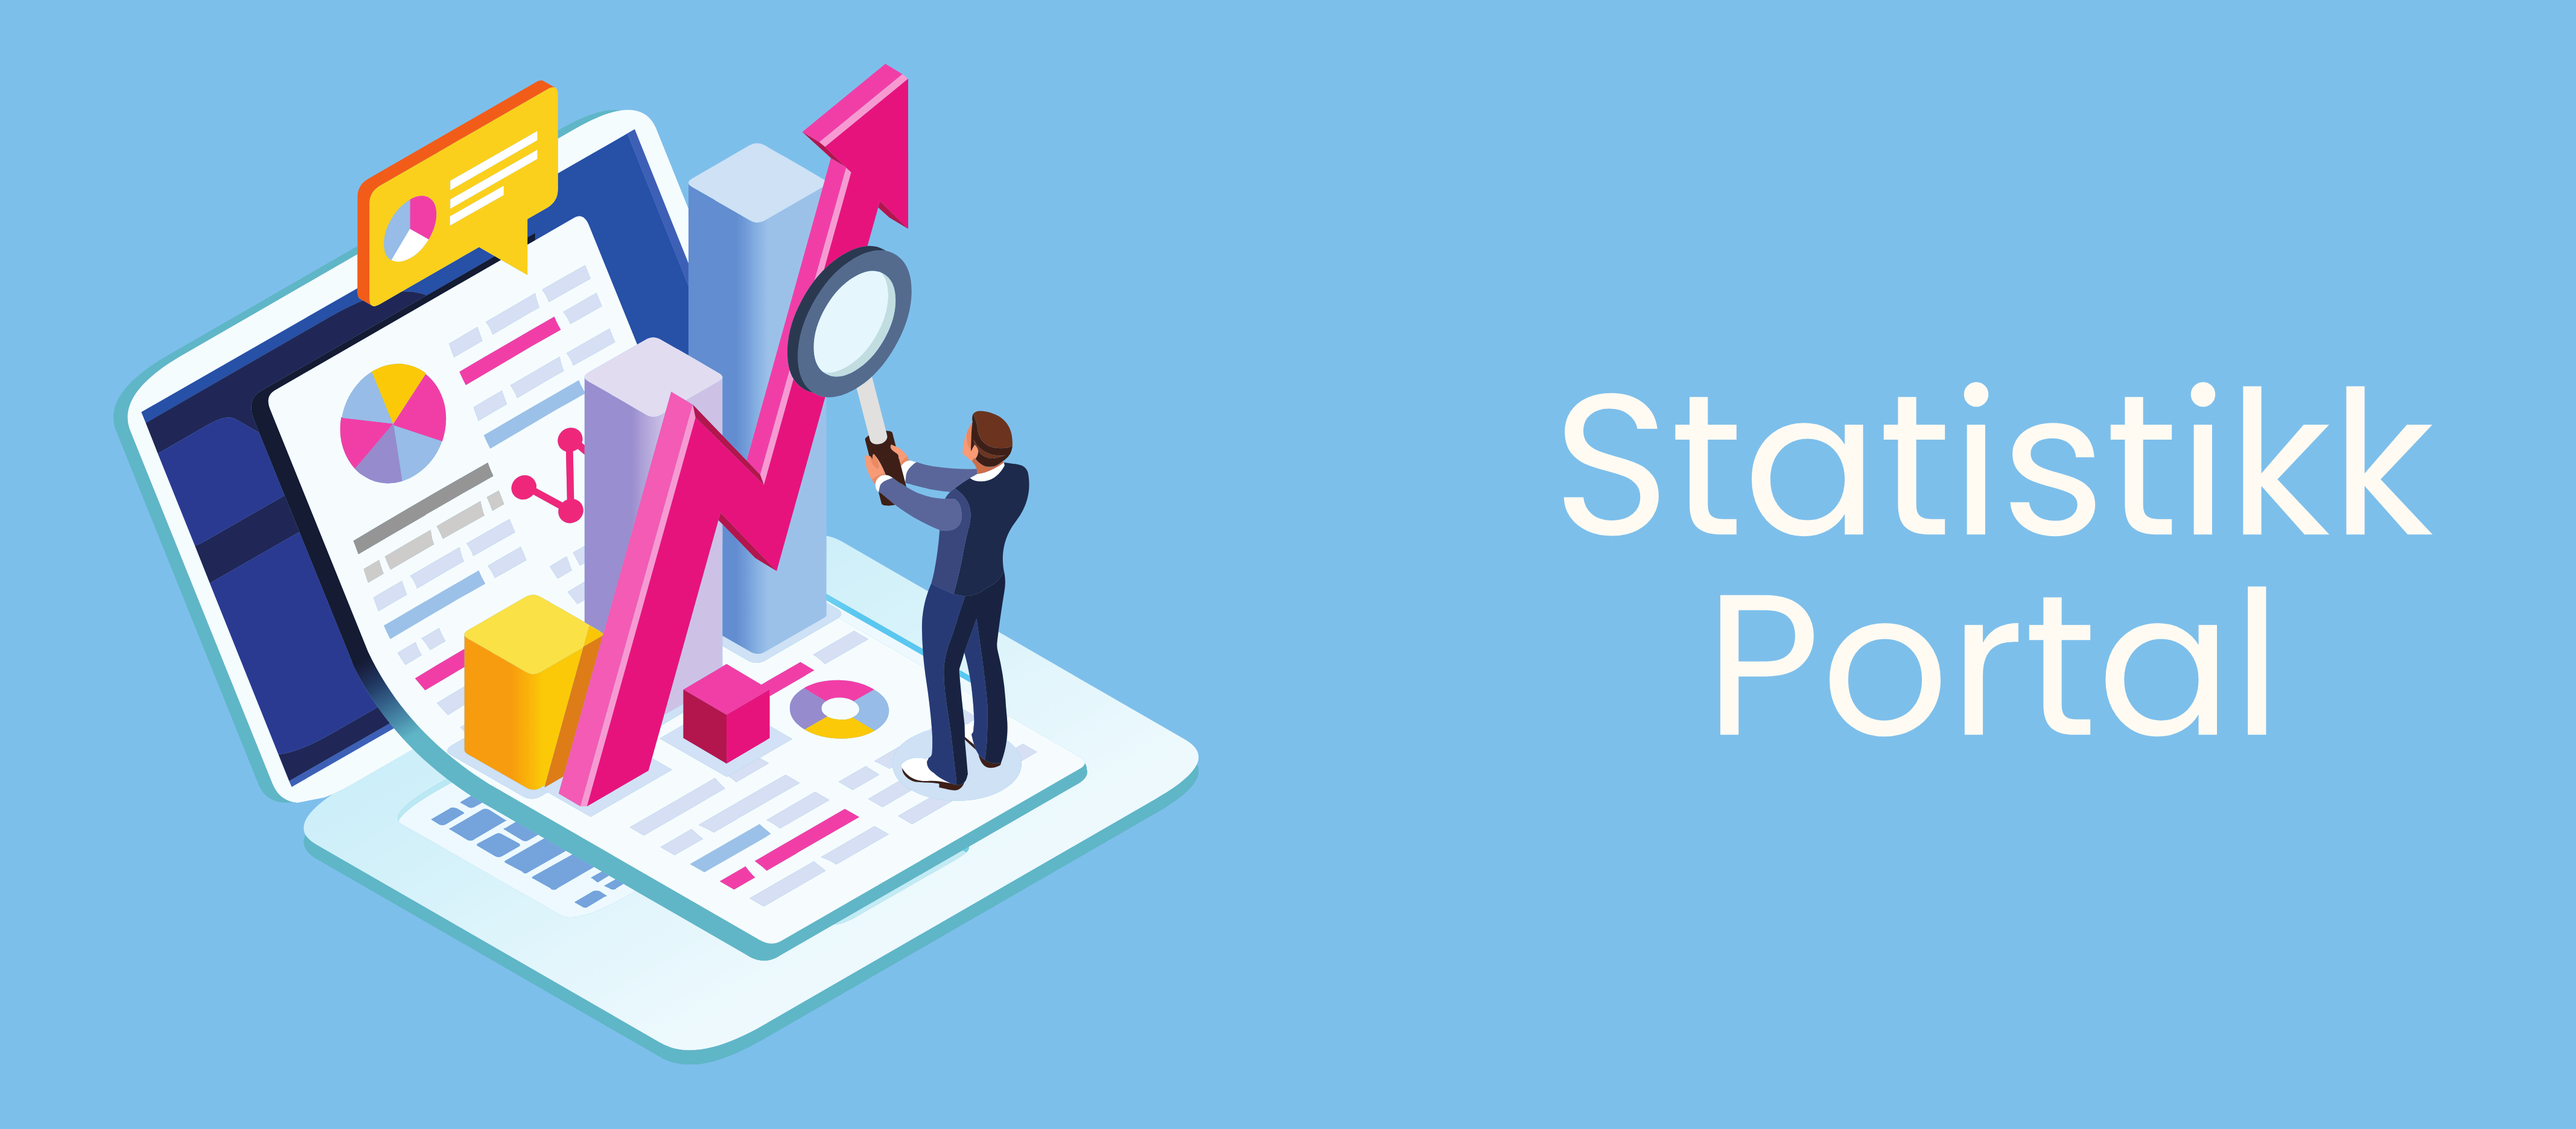
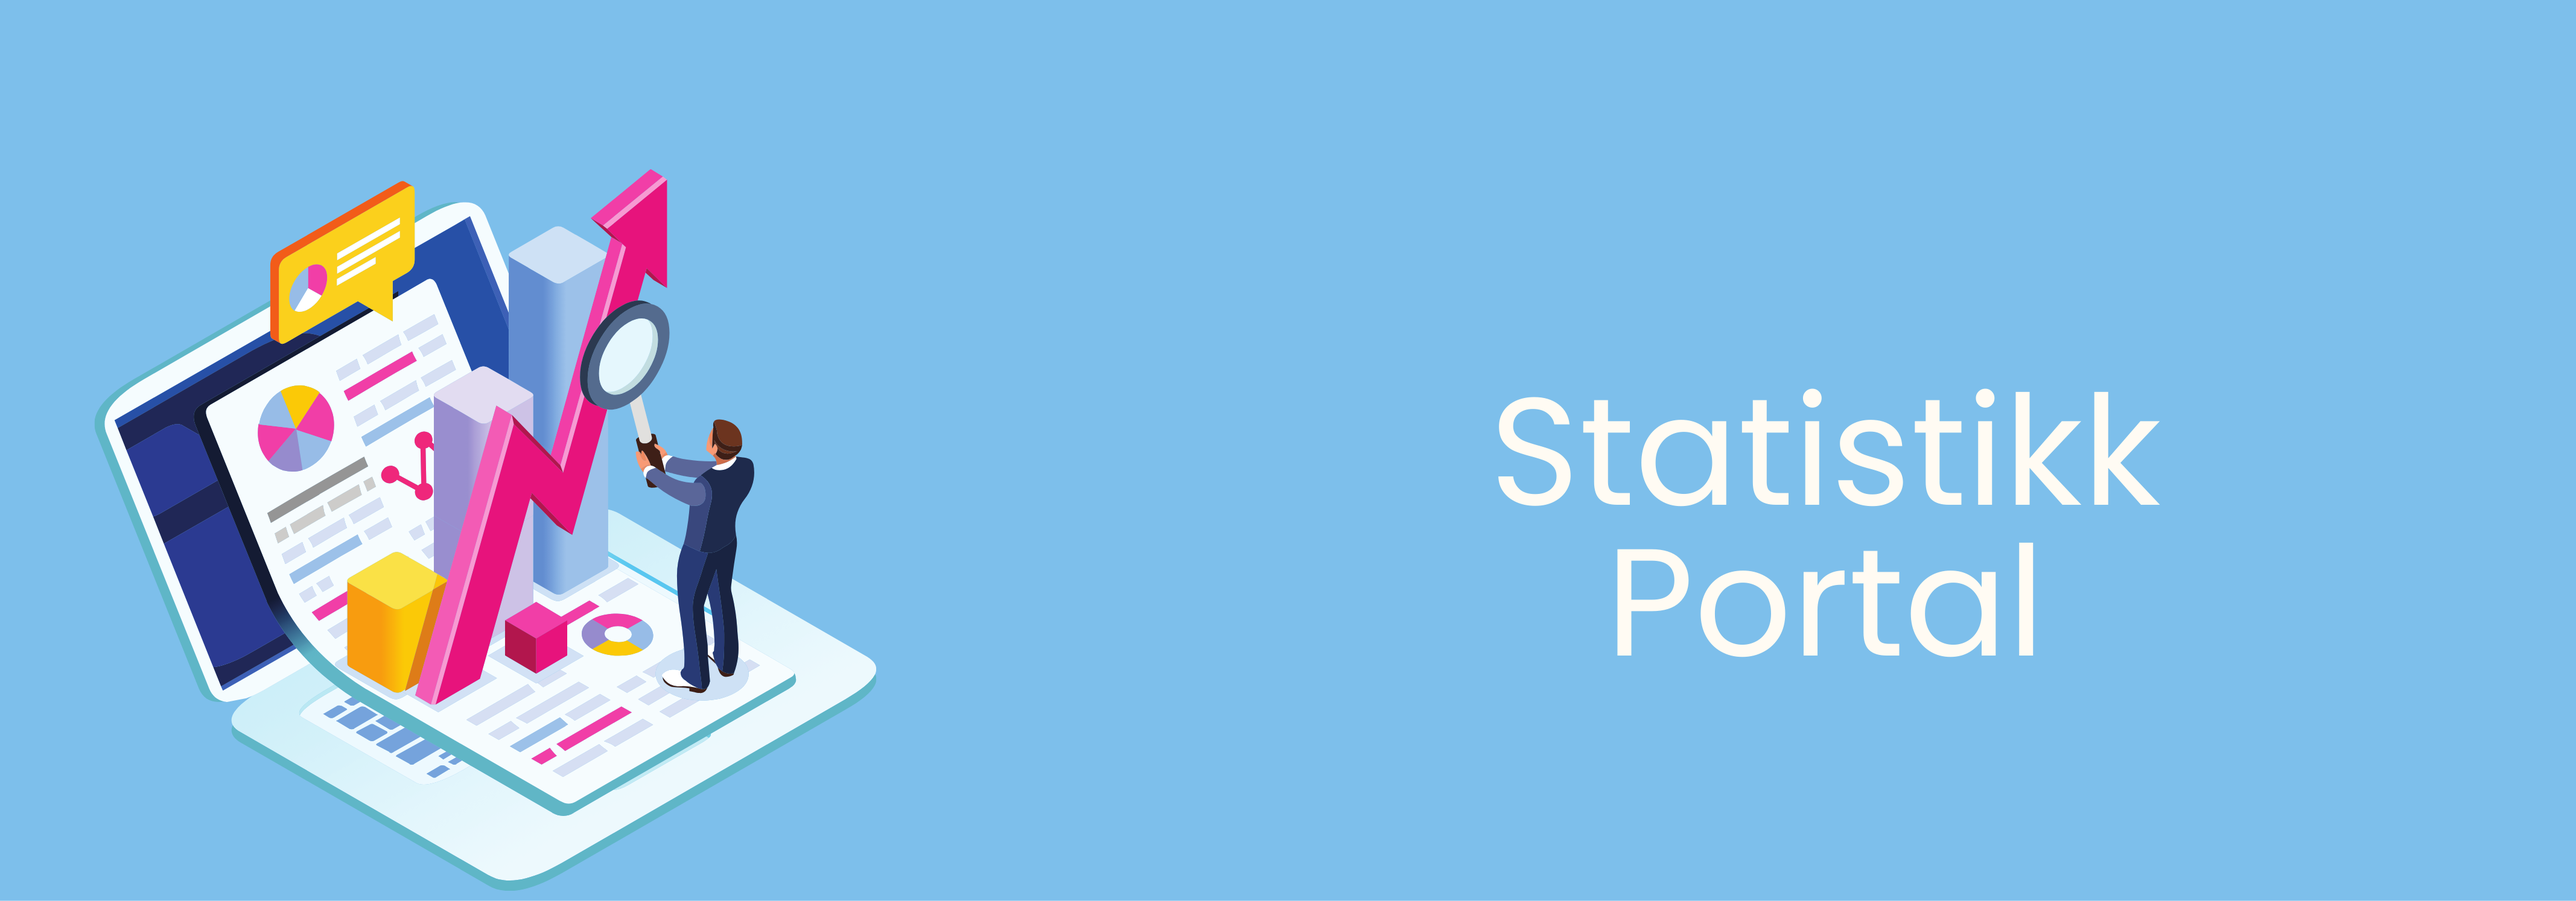
forbedre hero

Changed region(s): [[0.0312, 0.0616, 0.4673, 1.0], [0.5608, 0.3387, 0.9658, 0.739]]

diff --git a/src/App.css b/src/App.css
@@ -212,3 +212,7 @@ form {
 .chart-card {
   background-color: #fff;
 }
+
+.header-bottom {
+  margin-top: -1px;
+}
